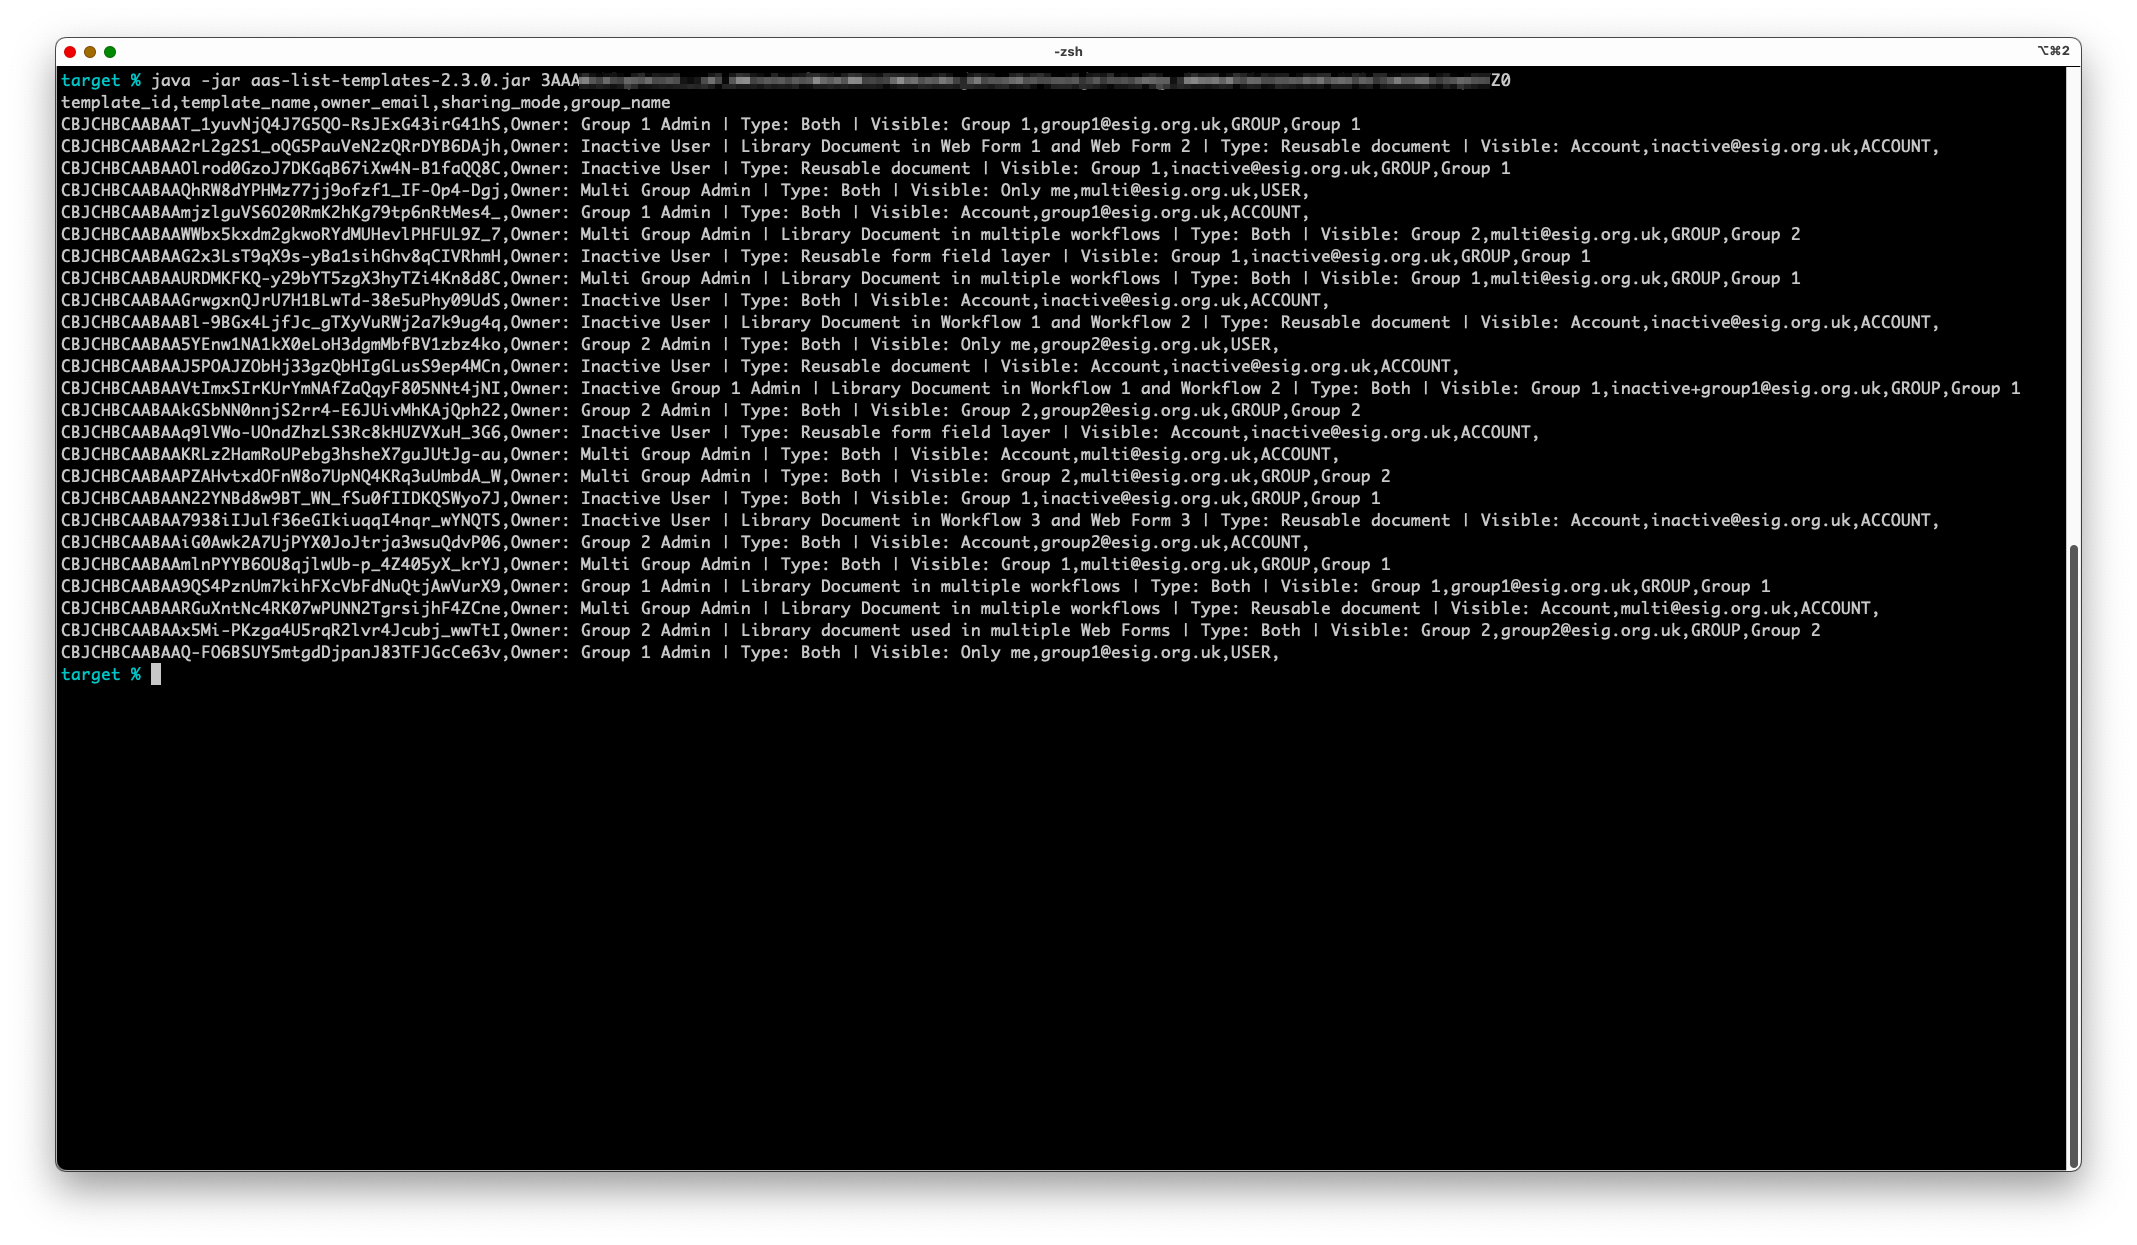
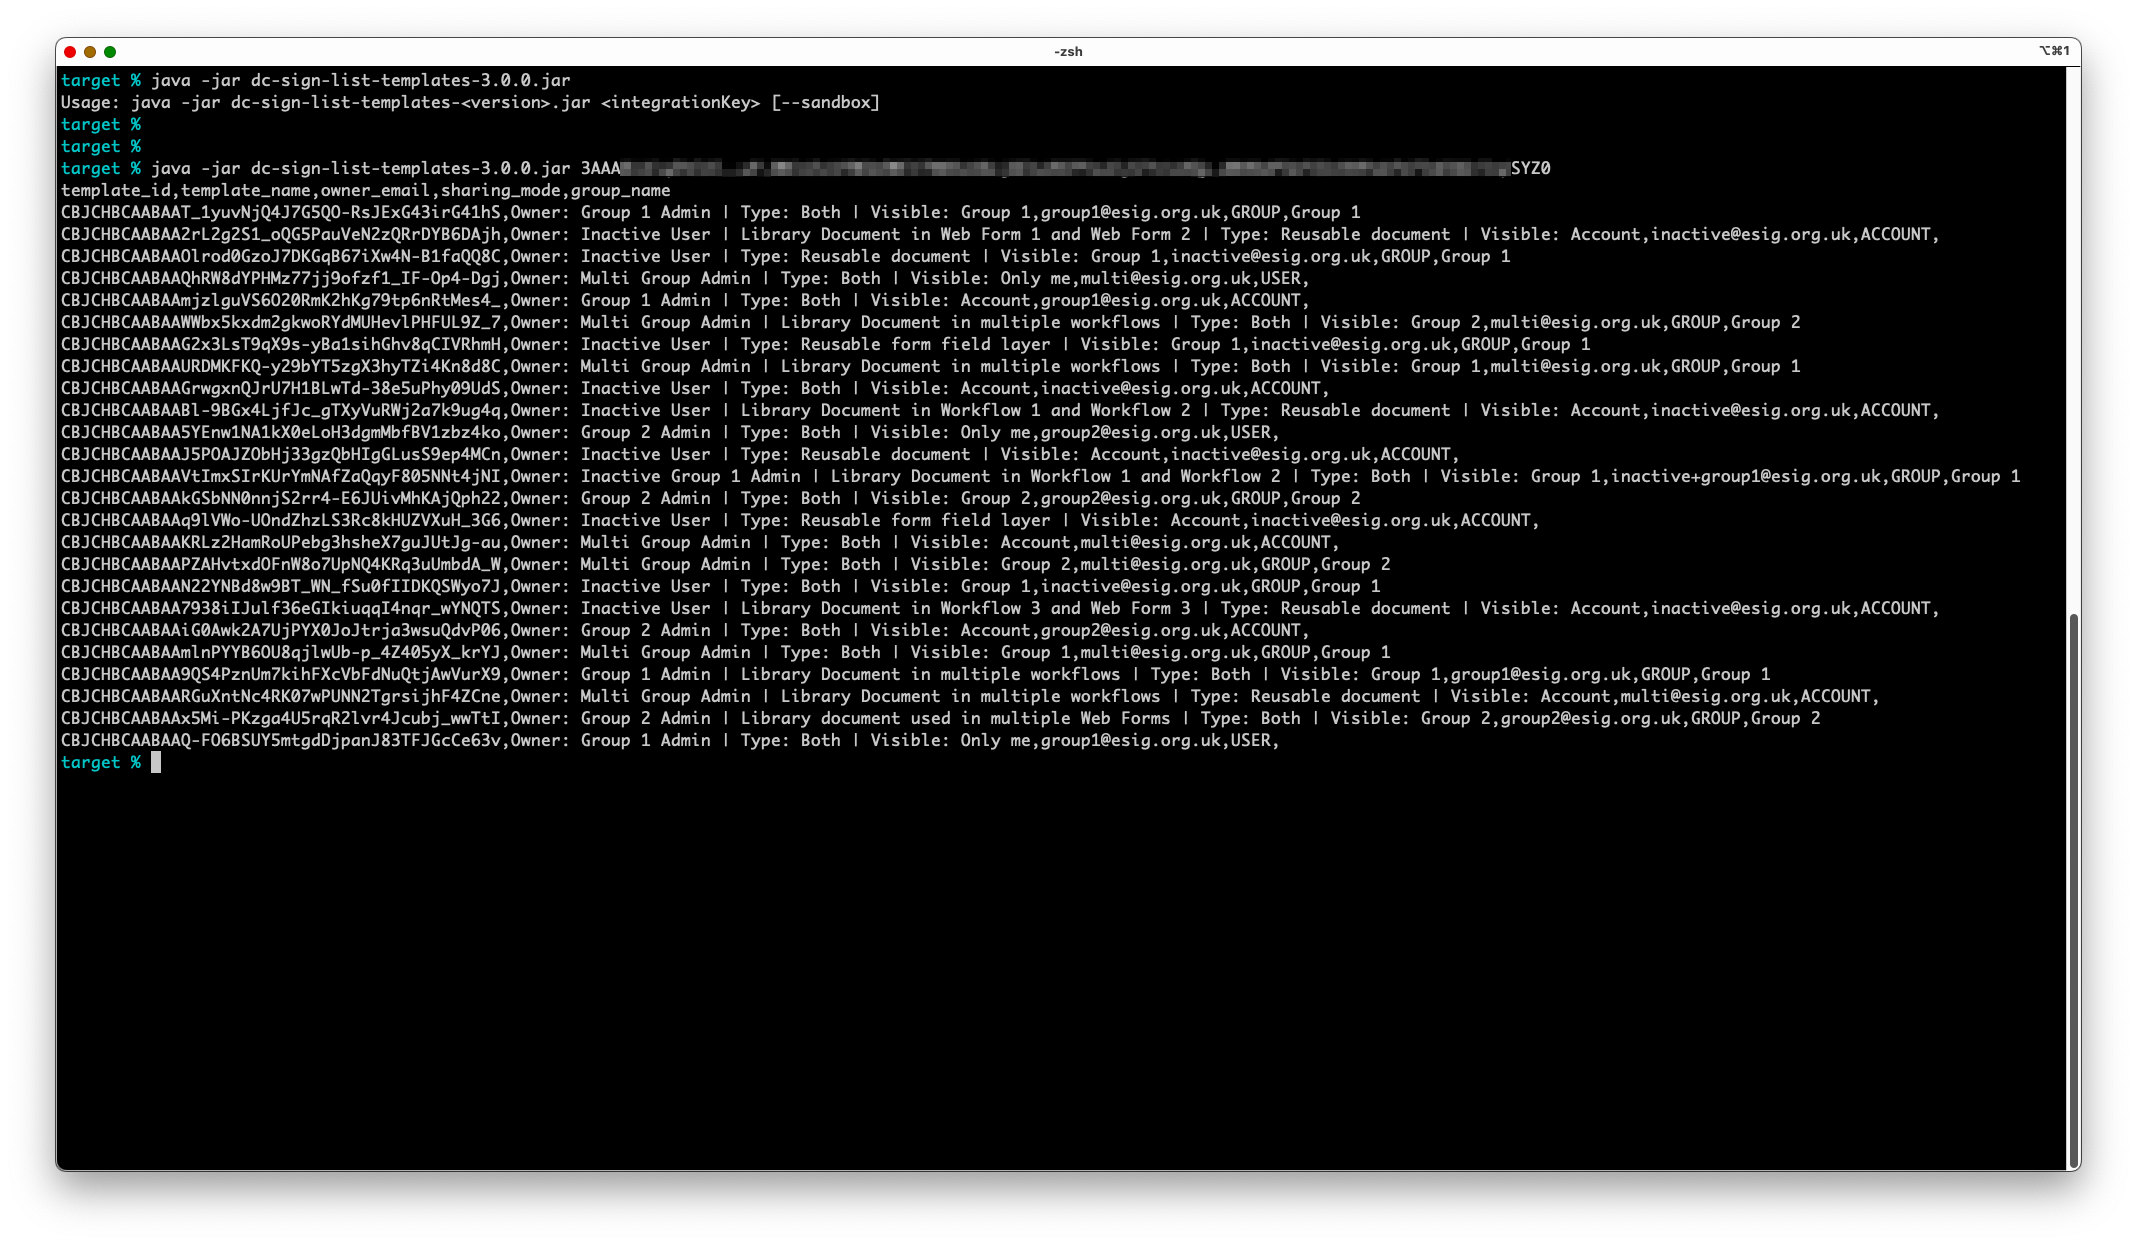
Rename to dc-sign- prefix

Changed region(s): [[0.0309, 0.061, 0.9265, 0.641], [0.7103, 0.0916, 0.8956, 0.1221], [0.9574, 0.4578, 0.9883, 0.4884]]

diff --git a/src/main/java/uk/org/esig/adobe/libraryDocuments/ListTemplates.java b/src/main/java/uk/org/esig/adobe/libraryDocuments/ListTemplates.java
@@ -53,7 +53,7 @@ public class ListTemplates {
     private static final String SANDBOX = "--sandbox";
     private static final String SANDBOX_API_URL = "https://api.adobesignsandbox.com/";
     private static final int TIMEOUT = 300000;
-    private static final String USAGE = "Usage: java -jar aas-list-templates-<version>.jar <integrationKey> [--sandbox]";
+    private static final String USAGE = "Usage: java -jar dc-sign-list-templates-<version>.jar <integrationKey> [--sandbox]";
 
     public static void main(String[] args) {
         if (args.length < 1 || args.length > 2) {

diff --git a/src/main/java/io/swagger/client/model/libraryDocuments/LibraryDocument.java b/src/main/java/io/swagger/client/model/libraryDocuments/LibraryDocument.java
@@ -26,7 +26,6 @@ import com.google.gson.annotations.JsonAdapter;
 import com.google.gson.annotations.SerializedName;
 import com.google.gson.stream.JsonReader;
 import com.google.gson.stream.JsonWriter;
-import io.swagger.annotations.ApiModel;
 import io.swagger.annotations.ApiModelProperty;
 import java.io.IOException;
 import java.util.ArrayList;

diff --git a/README.md b/README.md
@@ -1,4 +1,4 @@
-# aas-list-templates
+# dc-sign-list-templates
 
 ## Introduction
 
@@ -6,7 +6,7 @@ This Java-based command-line tool provides a simple method to list all the libra
 
 ## Set-Up Instructions
 
-+ Download the latest release of the `aas-list-templates-<version>.jar` from the [Releases](https://git.corp.adobe.com/sign-acs/aas-list-templates/releases) page
++ Download the latest release of the `dc-sign-list-templates-<version>.jar` from the [Releases](https://git.corp.adobe.com/sign-acs/dc-sign-list-templates/releases) page
 + [Download Java 1.8](https://www.oracle.com/java/technologies/javase/javase8-archive-downloads.html), if you don't already have it installed on your machine
 + [IP Addresses to add to your allow list](https://helpx.adobe.com/sign/system-requirements.html#IPs), if needed
 
@@ -31,7 +31,7 @@ To do this, follow the steps below:
   + `[--sandbox]` optional flag if the integration key is for a Sandbox account
 
 ```sh
-java -jar aas-list-templates-<version>.jar <integrationKey> [--sandbox]
+java -jar dc-sign-list-templates-<version>.jar <integrationKey> [--sandbox]
 ```
 
 Assuming you have specified the required parameters correctly, then you should see output similar to that below:
@@ -41,7 +41,7 @@ Assuming you have specified the required parameters correctly, then you should s
 Note that the output is deliberately concise to support redirecting output to a CSV file which can then be opened in programs such as Microsoft Excel.
 
 ```sh
-java -jar aas-list-templates-<version>.jar <integrationKey> > output.csv
+java -jar dc-sign-list-templates-<version>.jar <integrationKey> > output.csv
 ```
 
 ## Building
